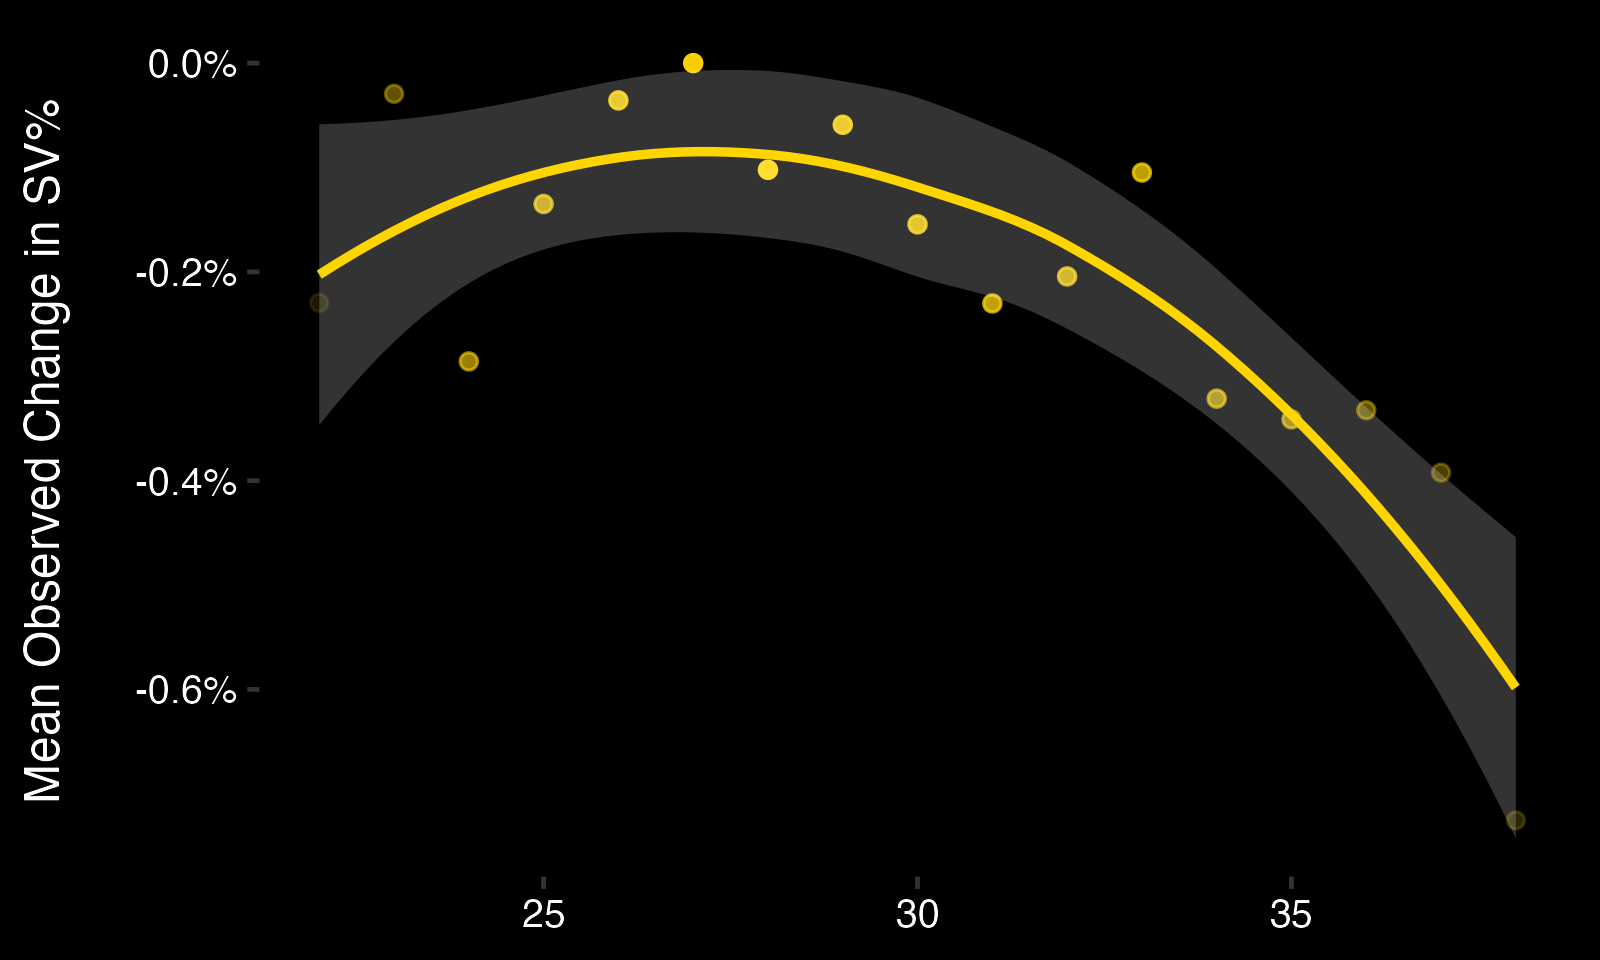
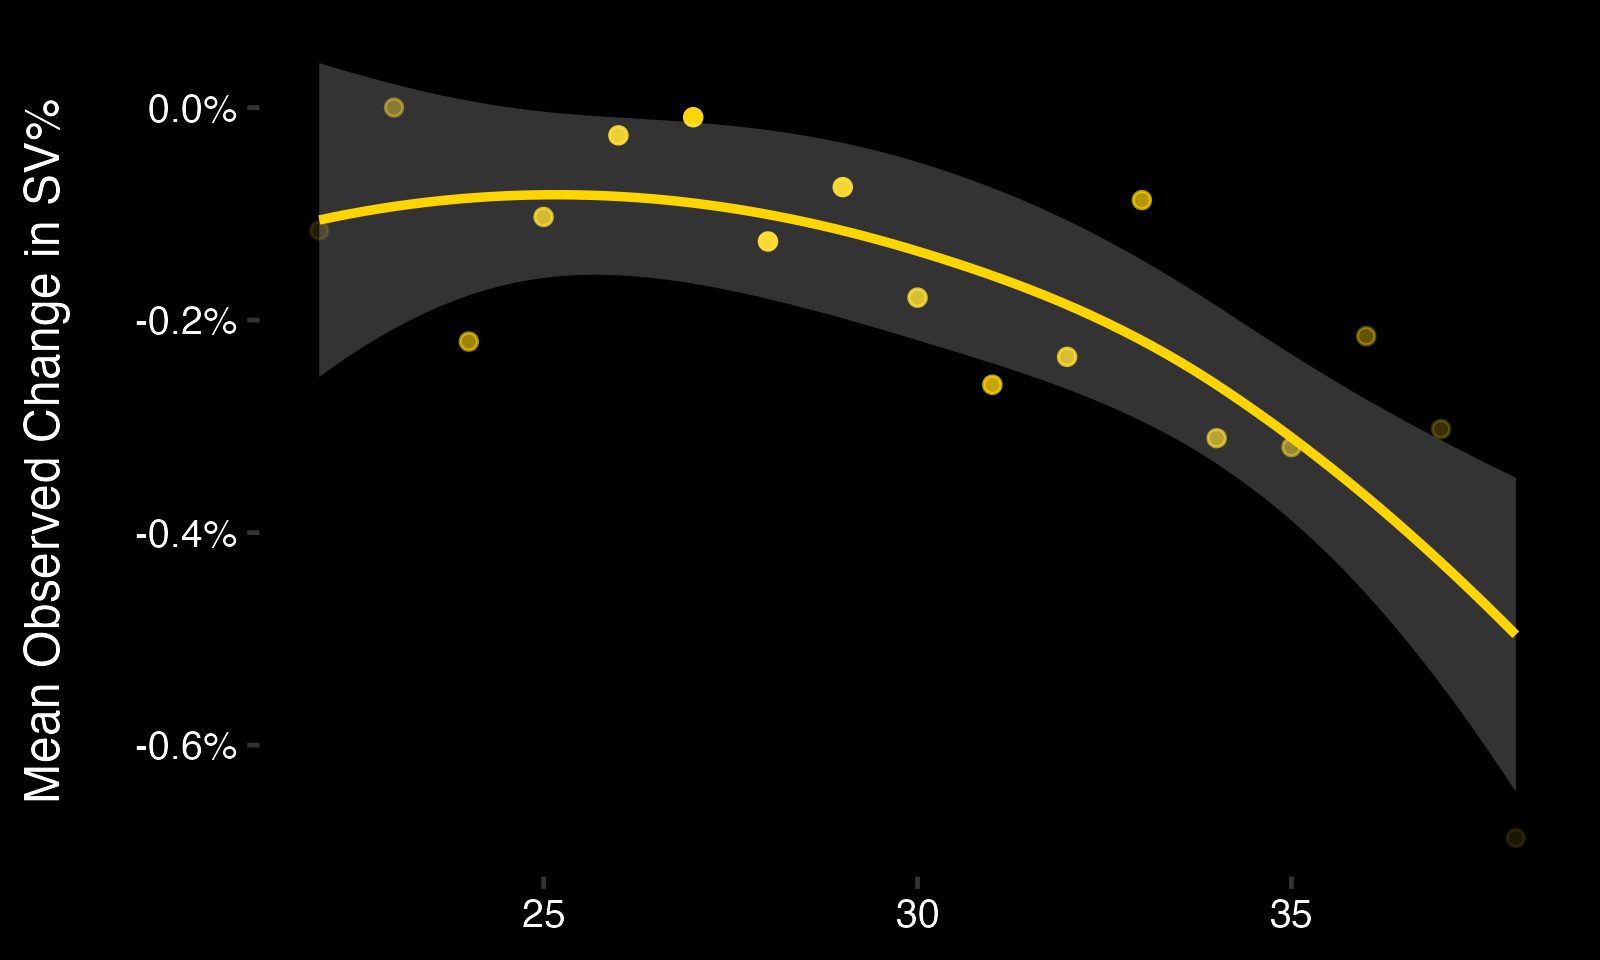
change publish dates

diff --git a/_posts/2023-07-15-goalie-performance-3.md b/_posts/2023-07-15-goalie-performance-3.md
@@ -1,7 +1,7 @@
 ---
 layout: post
 title:  "Goalie Performance: Adjusting for Age"
-date:   2023-07-30 12:00:00 -0400
+date:   2023-07-15 12:00:00 -0400
 ---
 <head>
 <!-- Google tag (gtag.js) -->
@@ -54,10 +54,10 @@ They barely differ.
 </p>
 <p>
 <h5>Explore age</h5>
-Let's start by simply grouping shots into bins by goalie age (rounded to the first decimal, ex: 26.0, 26.1, etc.), and then calculating the group-wide save percentage. Here's what that looks like, with points becoming paler as the group size decreases:
+Let's start by simply grouping shots into bins by goalie age (rounded to the first decimal, ex: 26.0, 26.1, etc.), and then calculating the group-wide save percentage. Here's what that looks like, with points becoming paler for smaller groups sizes:
 </p>
 <p>
-<div style="text-align: center"> <img src="https://spazznolo.github.io/figs/goalie-seven-one.png" width="60%" length="150"/></div>
+<div style="text-align: center"> <img src="https://spazznolo.github.io/figs/goalie-performance-3-1.png" width="60%" length="150"/></div>
 </p>
 <p>
 Some thoughts:
@@ -70,27 +70,24 @@ Let's fix some of the bias above with a few changes. We'll follow a well-worn st
     - Take change in save percentage (dSV%) from each goalie's age to the next. 
     - Take the harmonic mean of dSV% for each age as the the observed change in SV%.
     - Clip off underrepresented ages (-21, 39+).
+    - Clip off the final year of each goalie's career.
     - Take the cumulative sum of dSV% throughout the retained age range.
 </p>
 <p>
 Altogether, this gives us the curve below:
 </p>
 <p>
-<div style="text-align: center"> <img src="https://spazznolo.github.io/figs/goalie-seven-two.png" width="60%" length="150"/></div>
+<div style="text-align: center"> <img src="https://spazznolo.github.io/figs/goalie-performance-3-2.png" width="60%" length="150"/></div>
 </p>
 <p>
 Some thoughts:
-    - With this method, goalies peak around the age of 27.
+    - With this method, goalies peak around the age of 25.
     - This agrees with <a href="https://hockeyviz.com/txt/age22">some</a> past research.
     - This disagrees with <a href="https://hockey-graphs.com/2014/03/21/how-well-do-goalies-age-a-look-at-a-goalie-aging-curve/">other</a> past research.
-    - There is well documented survivorship bias.
-</p>
-<p>
-INCLUDE PHANTOM YEARS HERE
 </p>
 <p>
 <h5>Adjusting for Age</h5>
-The cleanest way that I can think of adjusting for age is to bake it into the current framework which already adjusts shots by their probability of becoming a goal. This can easily by done by first setting the peak (age 27) as the standard and then adjusting for all other ages, so that, for example, an xFSV% of 0.940 at age 27 is equivalent to an xFSV% of 0.93882 at age 23 (0.94000 - 0.00118) and an xFSV% of 0.93487 at age 38 (0.94000 - 0.00513).
+The cleanest way that I can think of adjusting for age is to bake it into the current framework which already adjusts shots by their probability of becoming a goal. This can easily by done by first setting the peak (age 25) as the standard and then adjusting for all other ages, so that, for example, an xFSV% of 0.940 at age 25 is equivalent to an xFSV% of 0.93976 at age 22 (0.94000 - 0.000237) and an xFSV% of 0.93586 at age 38 (0.94000 - 0.00414).
 </p>
 <p>
     - Adjusted (xG) Save Percentage (AdjSV%) = MSV% + (FSV% - xFSV%)
@@ -98,7 +95,12 @@ The cleanest way that I can think of adjusting for age is to bake it into the cu
     - <b>Adjusted (Age + xG) Save Percentage (AdjSV%) = MSV% + (FSV% - xFSV% + acAdj)</b>
 </p>
 <p>
-COMPARE TWO GOALIES WITH DIFFERING AGES
+With this adjustment, Lundqvist's career save percentages work out like this:
+    - SV%:                      0.948638
+    - SQ AdjSV%:                0.947320
+    - Age SQ AdjSV%:            0.948619
+    - posterior SQ AdjSV%:      0.947082
+    - posterior Age SQ AdjSV%:  0.948338
 </p>
 <p>
 Code available here: <a href="https://github.com/spazznolo/goalie-performance/blob/main/posts/post-3.R">https://github.com/spazznolo/goalie-performance/blob/main/posts/post-3.R</a>

diff --git a/_posts/2023-07-07-draft-probabilities-5.md b/_posts/2023-07-07-draft-probabilities-5.md
@@ -52,7 +52,7 @@ At pick 9 of the draft, these analysts had the remaining players ranked as such:
 <div style="text-align: center"> <img src="https://spazznolo.github.io/figs/draft-probabilities-5-4.png" width="80%" length="200"/></div>
 </p>
 <p>
-The question: "who should each analyst draft at 9 in order to maximize their expected draft value for picks 9 and 17?" To answer, we use the equation shown above, which requires: 1) the value of the prospect taken at 9, 2) the conditional probabilities of the remaining prospects being available at 17, and 3) the values of these remaining prospects. 
+Let's determine who should each analyst draft at 9 in order to maximize their expected draft value for picks 9 and 17. To answer, we use the equation shown above, which requires: 1) the value of the prospect taken at 9, 2) the conditional probabilities of the remaining prospects being available at 17, and 3) the values of these remaining prospects. 
 </p>
 <p>
 <div style="text-align: center"> <img src="https://spazznolo.github.io/figs/draft-probabilities-5-5.png" width="80%" length="200"/></div>

diff --git a/_posts/2024-07-30-draft-probabilities-6.md b/_posts/2024-07-30-draft-probabilities-6.md
@@ -1,7 +1,7 @@
 ---
 layout: post
 title:  "NHL Draft: Post-Draft Analysis"
-date:   2023-07-20 12:00:00 -0400
+date:   2024-07-20 12:00:00 -0400
 ---
 <head>
 <!-- Google tag (gtag.js) -->

diff --git a/_posts/2024-07-30-goalie-performance-5.md b/_posts/2024-07-30-goalie-performance-5.md
@@ -1,7 +1,7 @@
 ---
 layout: post
 title:  "temp"
-date:   2023-07-30 8:52:05 -0400
+date:   2024-07-30 8:52:05 -0400
 ---
 <h2>temp</h2>
 <p>
